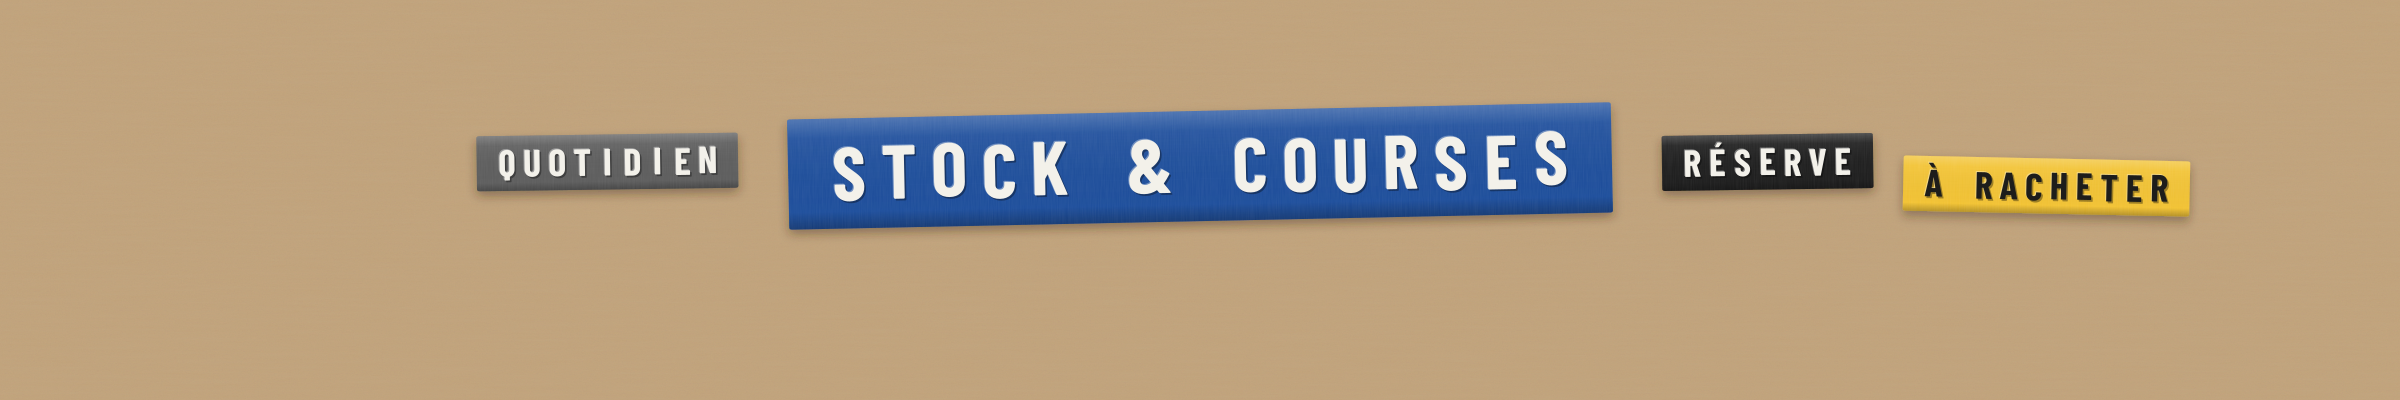
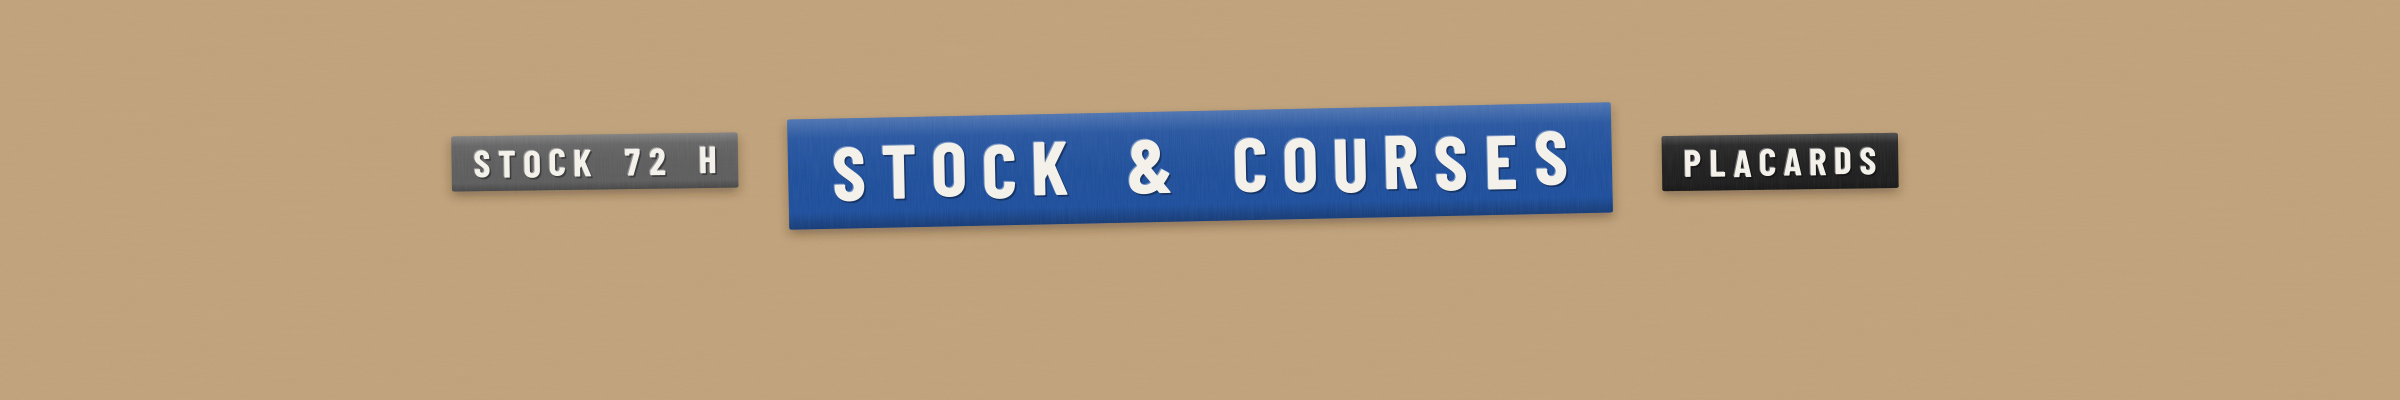
chore: stock cover tags match current views (Placards, Stock 72 h)
Claude-Session: https://claude.ai/code/session_01YAWoade2hb8ojyKy29xB4b

Changed region(s): [[0.6875, 0.33, 0.9375, 0.57], [0.1875, 0.33, 0.3125, 0.48]]

diff --git a/assets/v2/generate.py b/assets/v2/generate.py
@@ -57,7 +57,7 @@ def render(name,content,w,h):
 COVERS={
  "foyer":(("FOYER","noir",120),[("TÂCHES","rouge"),("STOCK","bleu"),("REPAS","vert"),("À RACHETER","jaune")]),
  "taches":(("TÂCHES DU FOYER","rouge",84),[("QUI FAIT QUOI","noir"),("EN RETARD","rouge"),("AUJOURD'HUI","jaune")]),
- "stock":(("STOCK & COURSES","bleu",84),[("RÉSERVE","noir"),("QUOTIDIEN","gris"),("À RACHETER","jaune")]),
+ "stock":(("STOCK & COURSES","bleu",84),[("PLACARDS","noir"),("STOCK 72 H","gris"),("À RACHETER","jaune")]),
  "repas":(("REPAS","vert",120),[("MENU DE LA SEMAINE","noir"),("CUISINÉ","vert"),("100 % DISPO","jaune")]),
  "semaine":(("POINT DU DIMANCHE","noir",84),[("10 MIN","jaune"),("À DEUX","rouge")]),
  "demarrer":(("DÉMARRER","noir",120),[("15 MIN","jaune"),("PREMIÈRE FOIS","bleu")]),
